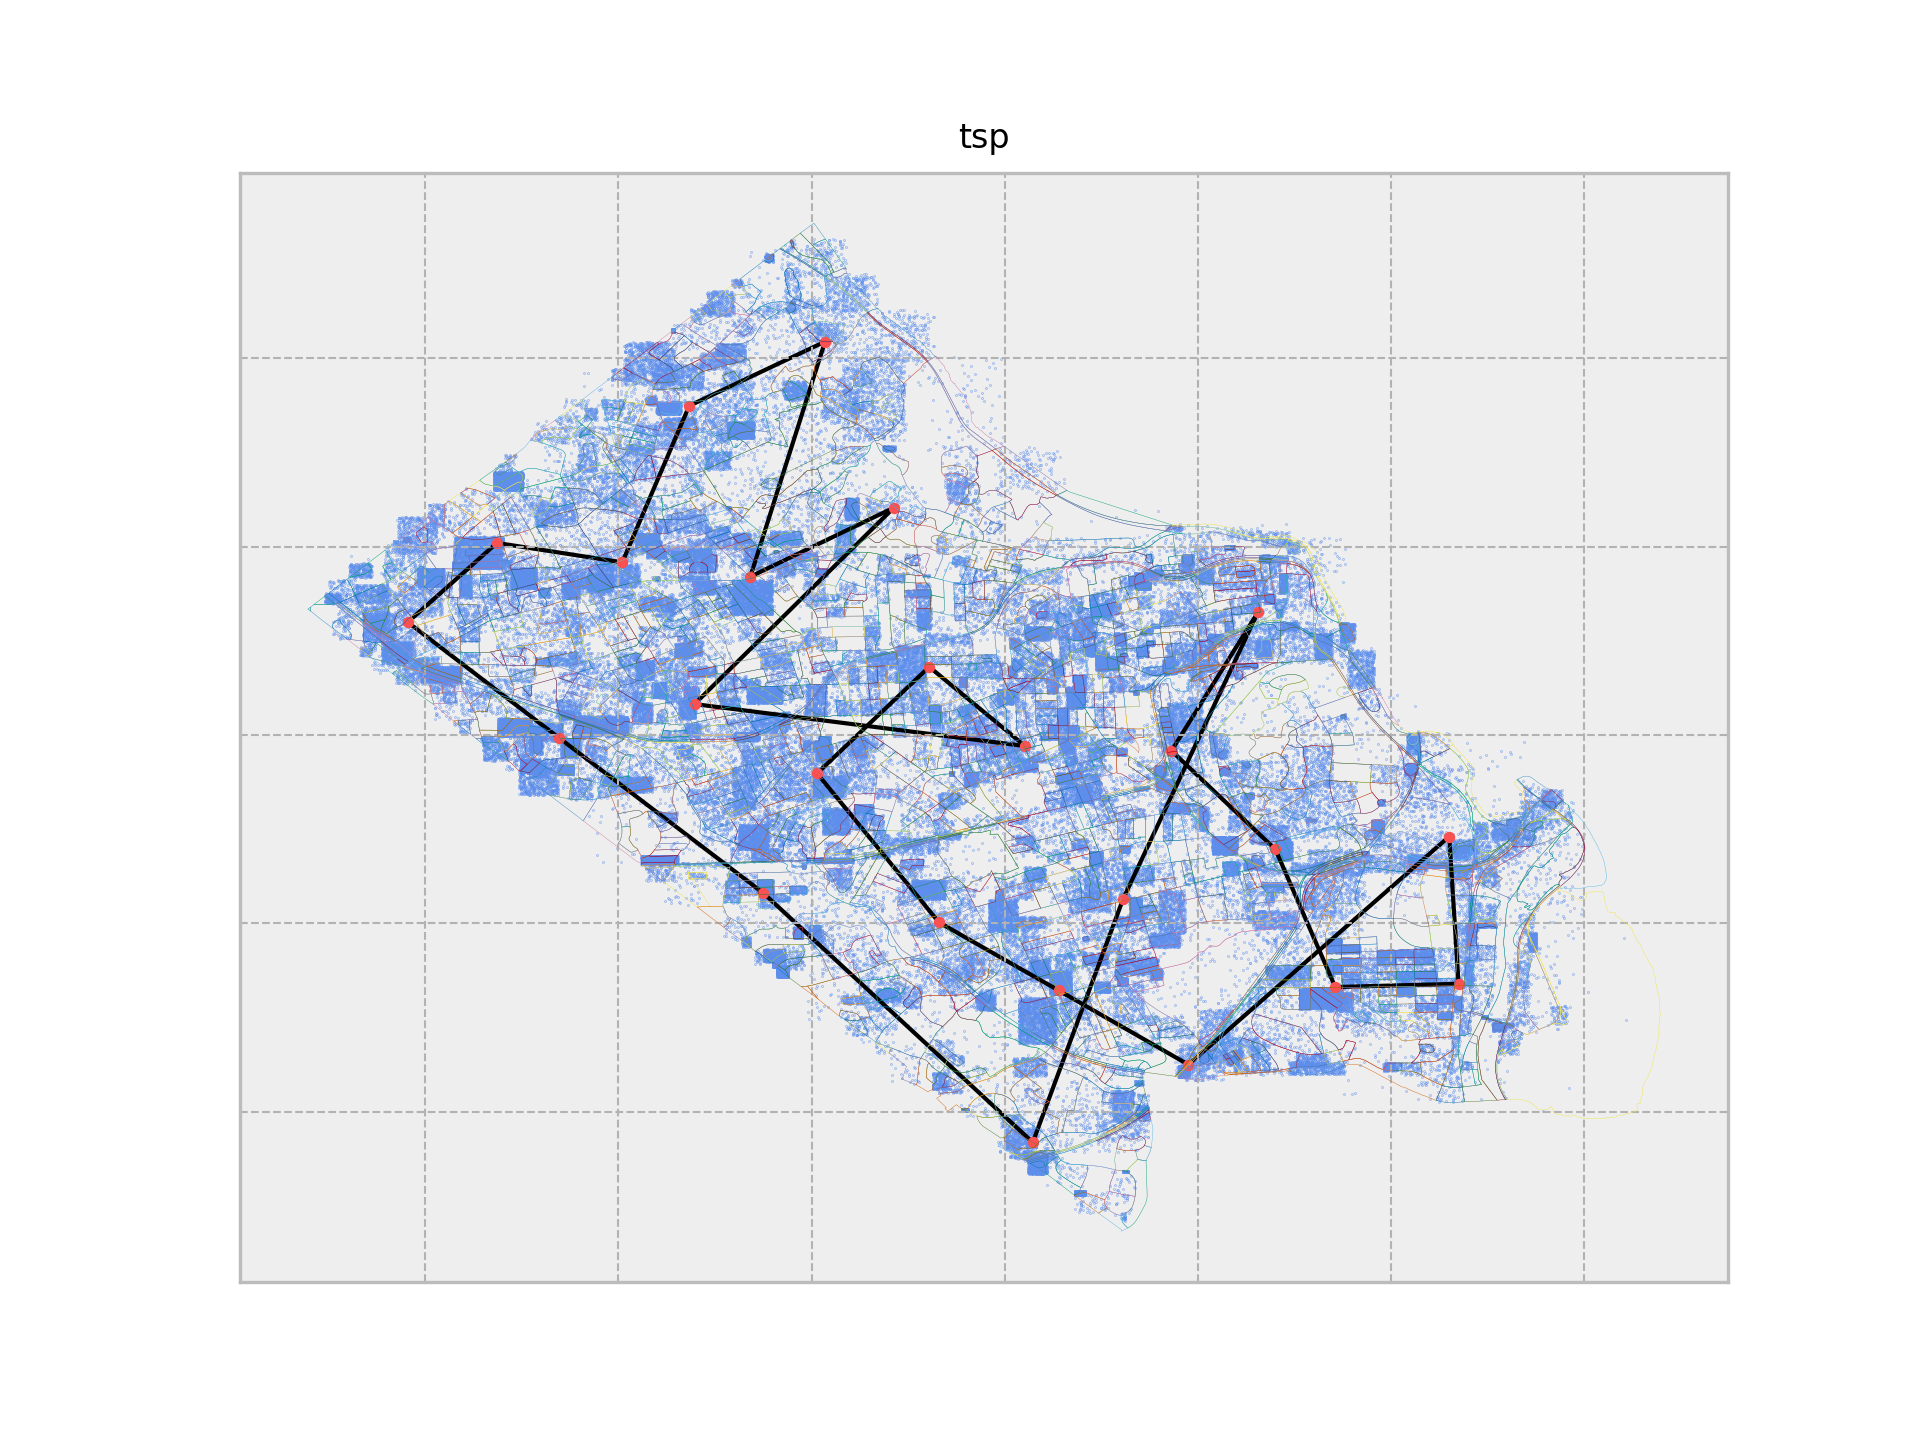
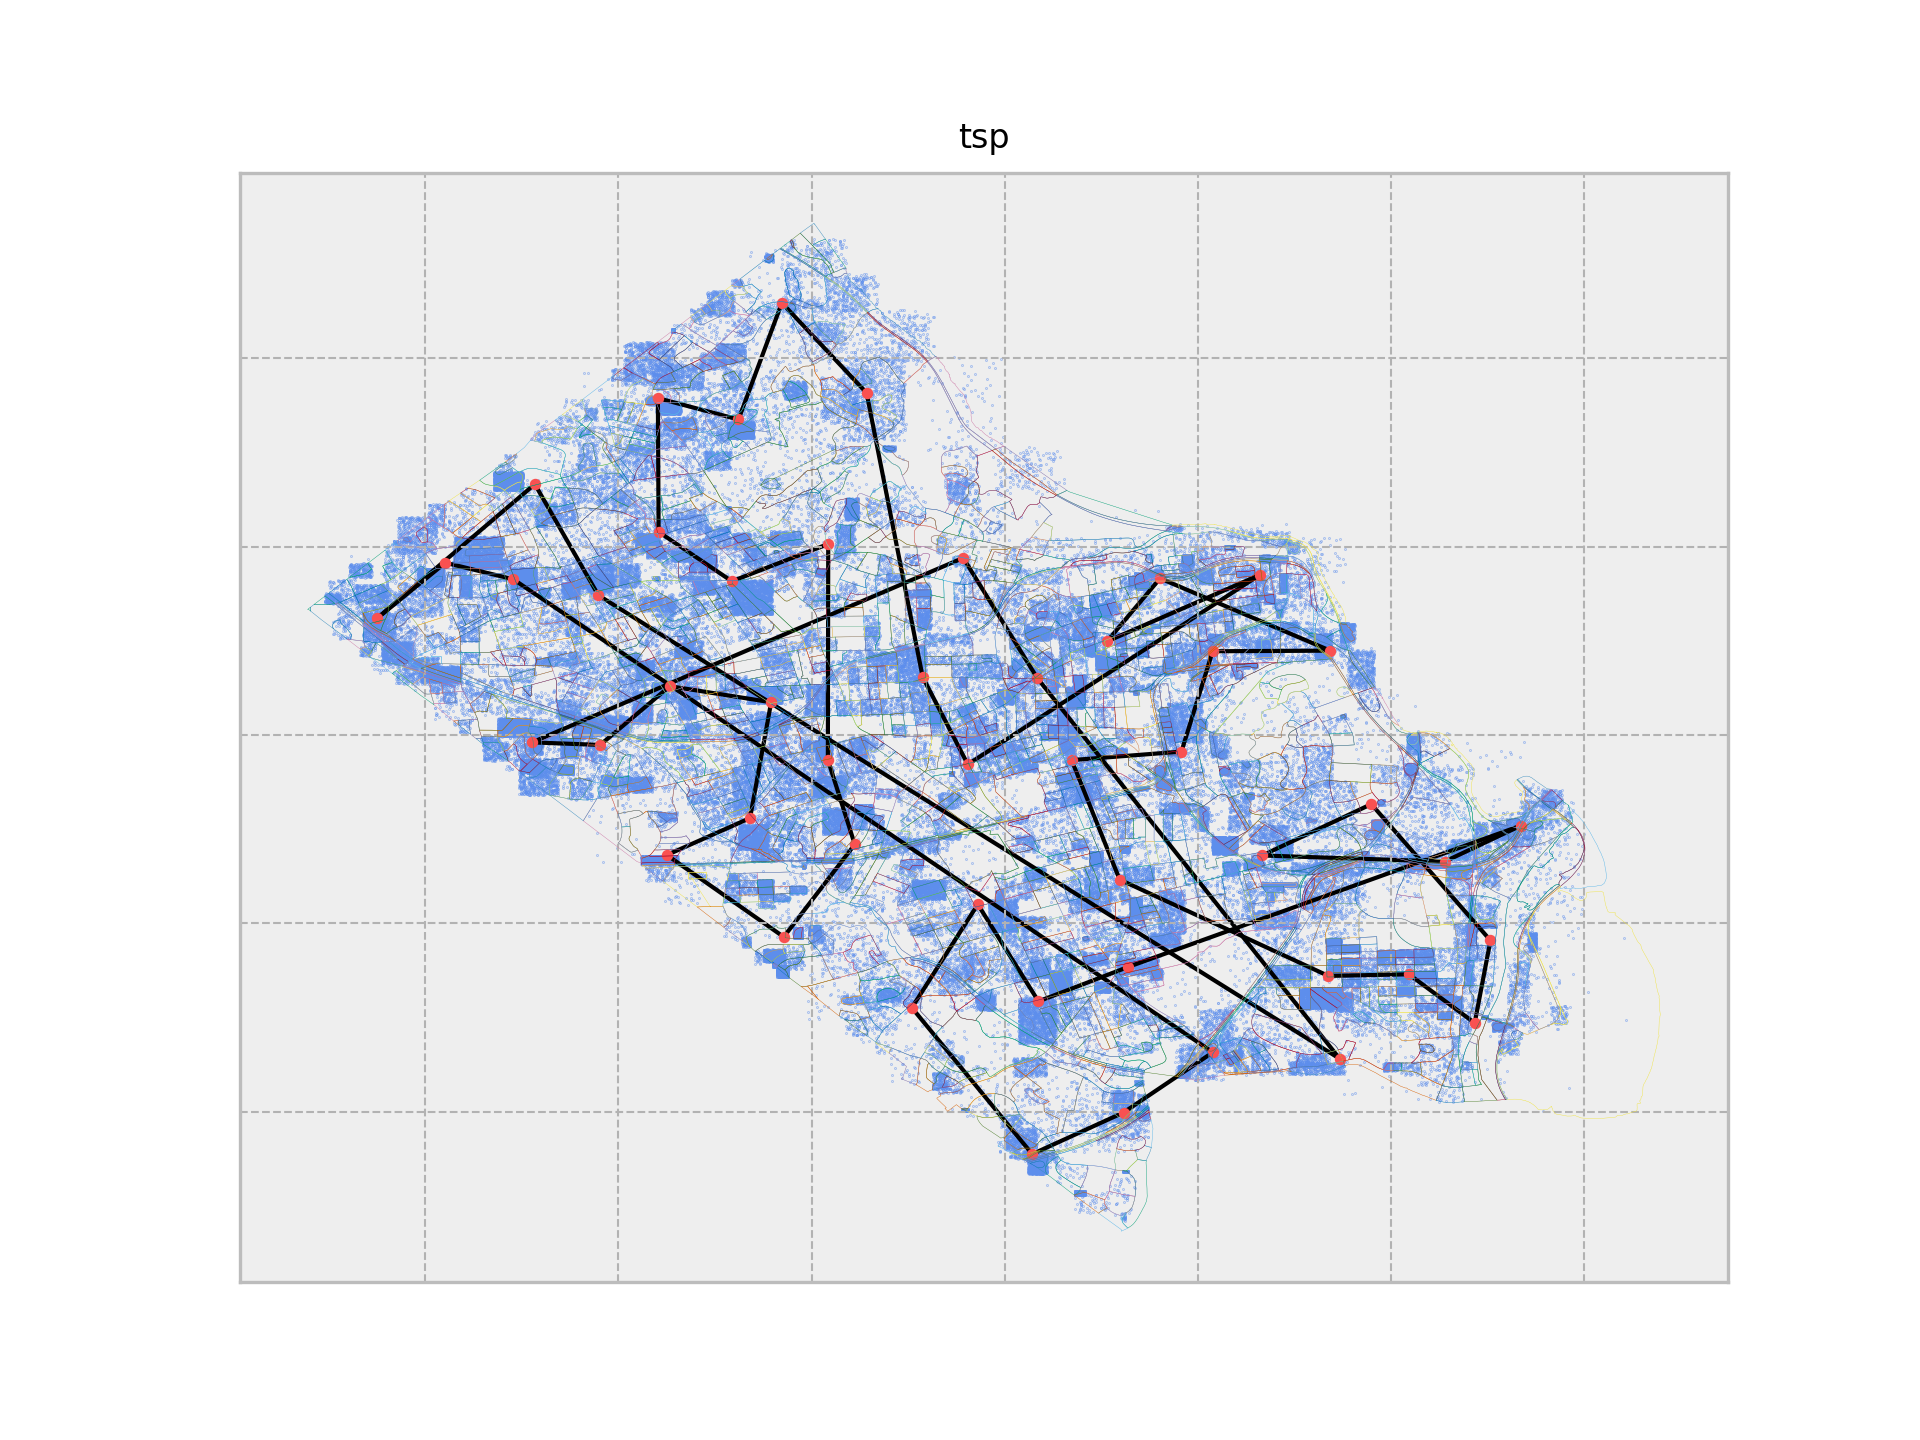
Make christofides() generic
Move initial point generation (k-means) outside of christofides().

diff --git a/betterbus.py b/betterbus.py
@@ -10,7 +10,7 @@ import time
 
 
 class BetterBus:
-    # TODO: Use try/except to generate vs read DataFrame
+    # TODO: Random state not working?
     def __init__(self, n):
         """
         Set random_state to ensure repeatable outcome.
@@ -150,8 +150,7 @@ class BetterBus:
     def get_dist(self, p1, p2):
         return ((p1[0] - p2[0])**2 + (p1[1] - p2[1])**2)**0.5
 
-    # TODO: Change to take set of points as param and return TSP
-    def christofides(self, show_steps=False):
+    def christofides(self, points, show_steps=False):
         """
         Algorithm:
         1) Create minimum spanning tree of graph
@@ -164,11 +163,9 @@ class BetterBus:
         Returns NetworkX Graph object with ~TSP edges.
         """
         ts = time.time()
-        # TODO: Remove this part, convert to generic list of points?
-        stops = sk_cl.KMeans(n_clusters=self.n).fit(self.arr).cluster_centers_
-        pos = {i: (p[1], p[0]) for i, p in enumerate(stops)}
-        edges = [(i, j, self.get_dist(p1, p2)) for i, p1 in enumerate(stops)
-                 for j, p2 in enumerate(stops)]
+        pos = {i: (p[1], p[0]) for i, p in enumerate(points)}
+        edges = [(i, j, self.get_dist(p1, p2)) for i, p1 in enumerate(points)
+                 for j, p2 in enumerate(points)]
         G = nx.Graph()
         G.add_weighted_edges_from(edges)
 
@@ -320,12 +317,10 @@ if __name__ == '__main__':
     Tie each route back to its depot and add routes between depots.
     Add more depots.
     """
-    n = 20
+    n = 50
     BB = BetterBus(n)
-    # BB.gen_df()
-    # BB.read_df()
-    # BB.gen_arr()
-    # tsp, pos = BB.christofides(show_steps=True)
+    stops = sk_cl.KMeans(n_clusters=BB.n).fit(BB.arr).cluster_centers_
+    tsp, pos = BB.christofides(stops, show_steps=True)
 
     # n_depots = 10
     # n_buses = 40
